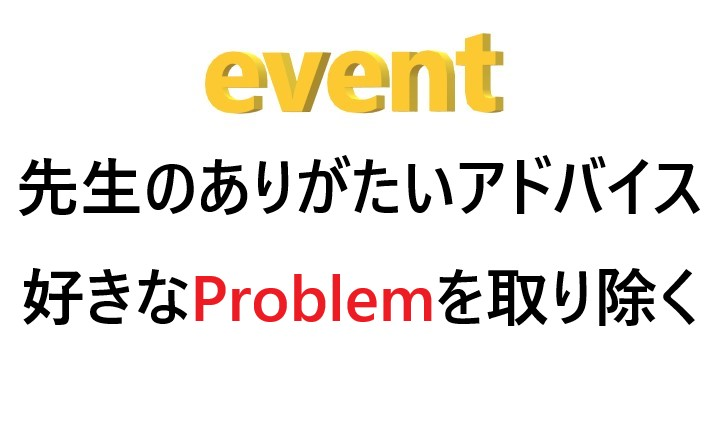
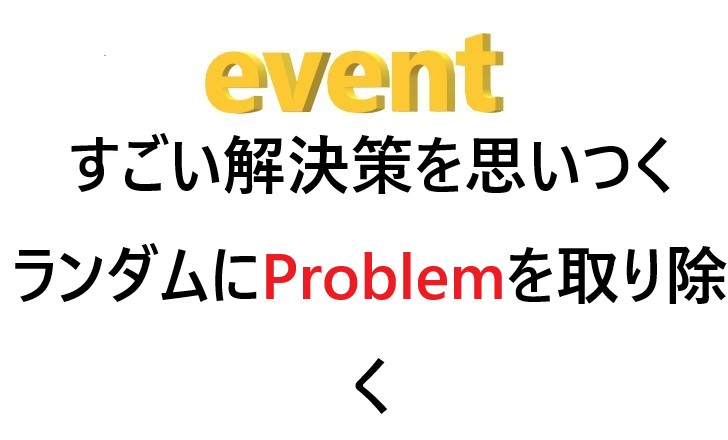
チャンスカード4,7の処理を変更

diff --git a/msotu.js b/msotu.js
@@ -249,11 +249,11 @@ function event(c) {
 
   if (c == 4) {
     for (let i = 1; i < 11; i++) {
-      if (taskarea[i] == 2) {
-        task[i] = 0;
+      if (res[i] == player) {
+        dtask[i] = 0;
+        problem[i] = 0;
       }
     }
-    daiceme = 0;
     insert();
   }
 
@@ -266,8 +266,15 @@ function event(c) {
   }
 
   if (c == 7) {
+    for (let i = 1; i < 11; i++) {
+      if (problem[i] > 0) {
+        problem[i] = 0;
+        break;
+      }
+    }
+    insert();
+    }
 
-  }
 
   if (c == 8) {
     daiceme = daiceme / 2;
